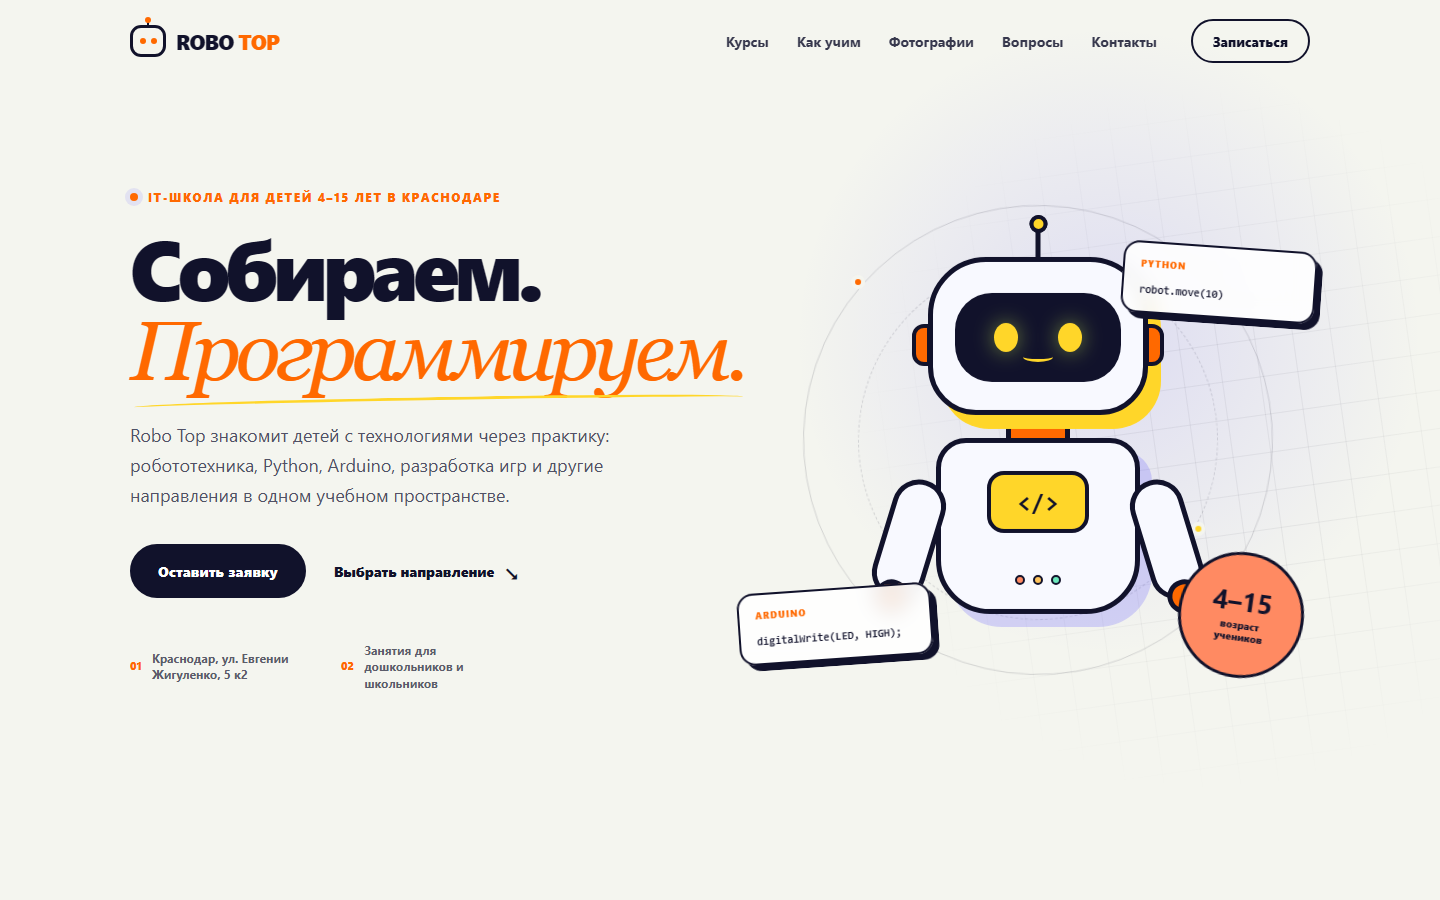
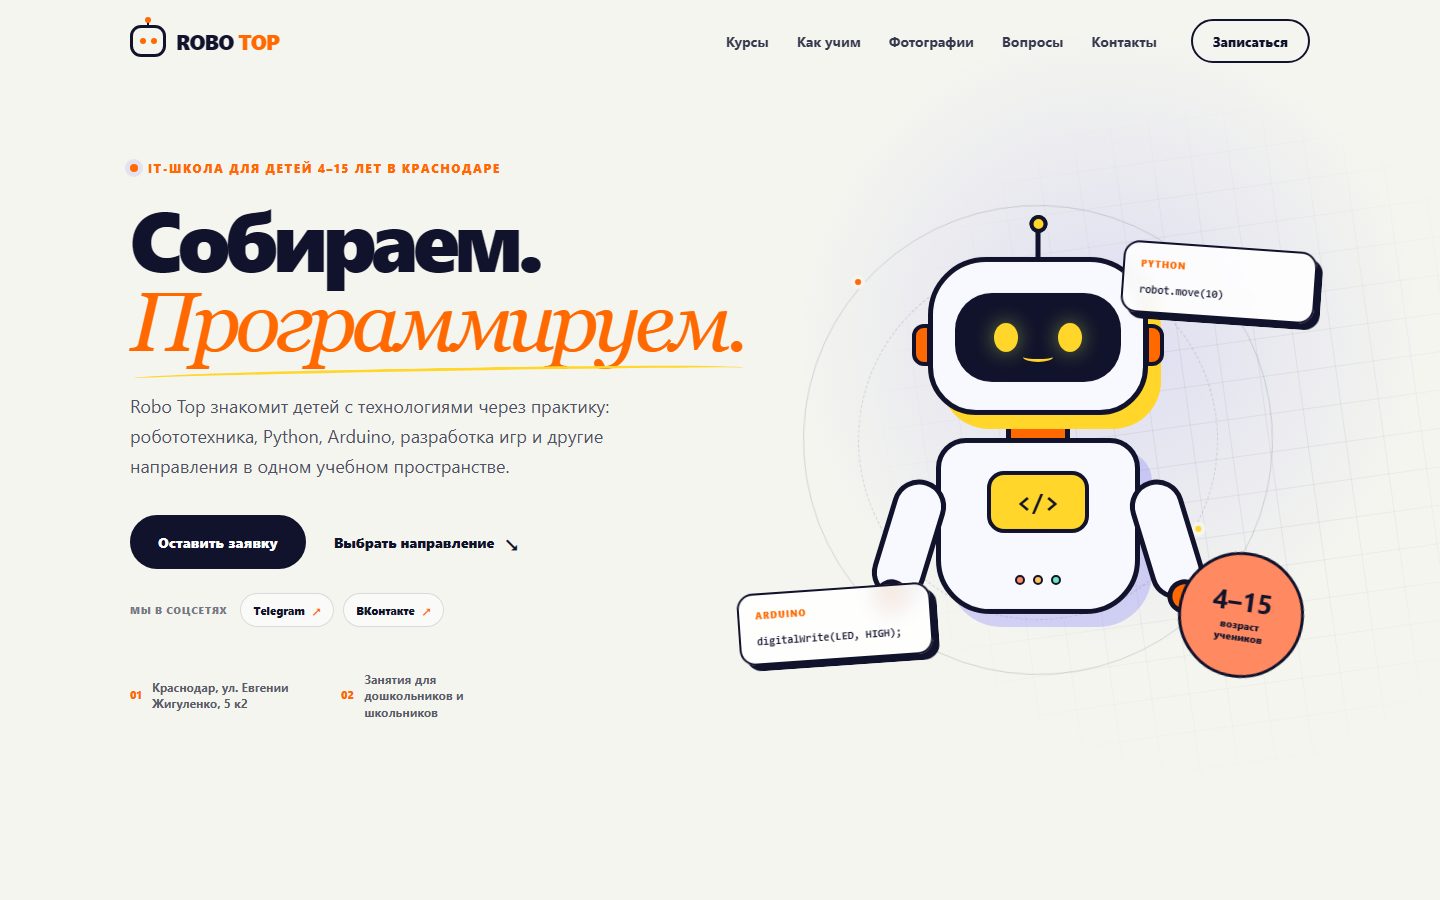
feat: surface social links in hero

Changed region(s): [[0.0938, 0.1867, 0.5312, 0.6844], [0.0938, 0.7156, 0.1875, 0.8089], [0.25, 0.7156, 0.3125, 0.8089]]

diff --git a/style.css b/style.css
@@ -382,6 +382,49 @@ svg {
   gap: 28px;
 }
 
+.hero-socials {
+  display: flex;
+  margin-top: 24px;
+  align-items: center;
+  gap: 9px;
+  flex-wrap: wrap;
+}
+
+.hero-socials > span {
+  margin-right: 4px;
+  color: #777885;
+  font-size: 10px;
+  font-weight: 900;
+  letter-spacing: 0.08em;
+  text-transform: uppercase;
+}
+
+.hero-socials a {
+  display: inline-flex;
+  min-height: 34px;
+  align-items: center;
+  gap: 7px;
+  padding: 0 12px;
+  border: 1px solid var(--line);
+  border-radius: 999px;
+  background: rgba(255, 255, 255, 0.55);
+  font-size: 11px;
+  font-weight: 900;
+  transition: border-color 0.2s ease, background 0.2s ease, transform 0.2s ease;
+}
+
+.hero-socials a:hover,
+.hero-socials a:focus-visible {
+  border-color: var(--ink);
+  background: var(--lime);
+  transform: translateY(-2px);
+}
+
+.hero-socials b {
+  color: var(--purple);
+  font-size: 13px;
+}
+
 .text-link {
   display: inline-flex;
   align-items: center;
@@ -1702,6 +1745,7 @@ svg {
   .hero-actions { align-items: stretch; flex-direction: column; gap: 18px; }
   .hero-actions .button { width: 100%; }
   .hero-actions .text-link { justify-content: center; }
+  .hero-socials { justify-content: center; }
   .hero-notes { margin-top: 35px; justify-content: space-between; gap: 15px; }
   .hero-notes span { font-size: 10px; }
   .hero-visual { min-height: 470px; margin: 5px -10px 0; transform: scale(0.84); transform-origin: center top; }

diff --git a/index.html b/index.html
@@ -50,6 +50,11 @@
             <a class="button" href="#trial">Оставить заявку</a>
             <a class="text-link" href="#courses">Выбрать направление <span aria-hidden="true">↘</span></a>
           </div>
+          <div class="hero-socials" aria-label="Robo Top в социальных сетях">
+            <span>Мы в соцсетях</span>
+            <a href="https://t.me/robotop_krd" target="_blank" rel="noopener">Telegram <b aria-hidden="true">↗</b></a>
+            <a href="https://vk.com/robotop_23" target="_blank" rel="noopener">ВКонтакте <b aria-hidden="true">↗</b></a>
+          </div>
           <div class="hero-notes" aria-label="Условия обучения">
             <span><b>01</b> Краснодар, ул. Евгении Жигуленко, 5 к2</span>
             <span><b>02</b> Занятия для дошкольников и школьников</span>
@@ -227,7 +232,6 @@
             <p class="section-kicker">Robo Top изнутри</p>
             <h2>Учимся, исследуем<br><span>и проводим каникулы</span></h2>
           </div>
-          <p>Реальные фотографии из открытых публикаций школы в Краснодаре: занятия в классе, VR и программы городского лагеря.</p>
         </div>
 
         <div class="project-grid">